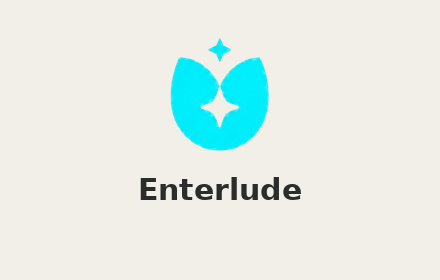
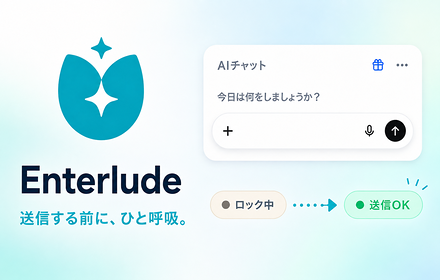
chore: refresh teal branding for v1.4.4 (#16)

diff --git a/README.md b/README.md
@@ -4,7 +4,7 @@
 
 # Enterlude
 
-![version](https://img.shields.io/badge/version-1.4.3-blue) ![license](https://img.shields.io/badge/license-MIT-green)
+![version](https://img.shields.io/badge/version-1.4.4-blue) ![license](https://img.shields.io/badge/license-MIT-green)
 
 **日本語** | [English](./README.en.md) | [한국어](./README.ko.md) | [繁體中文](./README.zh-TW.md)
 
@@ -76,7 +76,7 @@ fun/        … お楽しみ機能（一言コメントなど。comments.ja.js /
               ブラウザの表示言語に応じて自動的に切り替え。設定画面から手動指定も可能）
 popup/      … 拡張機能アイコンから開く設定画面
 _locales/   … 多言語対応のための表示文言（現在: 日本語・英語・韓国語・繁体字中国語）
-icons/      … 拡張機能アイコン（ツールバー表示用。視認性重視のシンプルな鍵デザイン）
+icons/      … 拡張機能アイコン（ツールバー表示用。Enterludeのティール色ブランドマーク）
 docs/       … 設計資料・スクリーンショット・ブランド用ロゴなど
 ```
 

diff --git a/docs/store-listing.md b/docs/store-listing.md
@@ -80,6 +80,14 @@ https://github.com/Maximiliana65/enterlude
 https://maximiliana65.github.io/enterlude/privacy.html
 ```
 
+## 次回更新用の掲載画像
+
+次回のChrome Web Store更新では、以下のティール色の素材を使用候補とします。ストア管理画面が求めるサイズ・形式は、アップロード直前にあらためて確認してください。
+
+- 小プロモーションタイル: `docs/images/store-promo-440x280.png`（440×280px）
+- マーキープロモーションタイル: `docs/images/store-marquee-1400x560.png`（1400×560px）
+- ストアロゴ: Chrome Web Store管理画面で現在使用しているロゴを、実際の画面で確認する。リポジトリの`docs/images/logo.png`および`docs/images/logo-300.png`はGitHub Pages・資料用であり、ストアロゴのサイズ要件を代用して判断しない
+
 ## 次回申請時に確認するPrivacy項目
 
 ストア管理画面の実際の質問と選択肢を開き、次の事実に沿って申告してください。前回の選択をそのまま再利用しないでください。

diff --git a/README.ko.md b/README.ko.md
@@ -4,7 +4,7 @@
 
 # Enterlude
 
-![version](https://img.shields.io/badge/version-1.4.3-blue) ![license](https://img.shields.io/badge/license-MIT-green)
+![version](https://img.shields.io/badge/version-1.4.4-blue) ![license](https://img.shields.io/badge/license-MIT-green)
 
 한국어 | [日本語](./README.md) | [English](./README.en.md) | [繁體中文](./README.zh-TW.md)
 
@@ -73,7 +73,7 @@ fun/        … 선택적인 재미 코멘트 기능 (comments.ja.js / comments.
               브라우저 표시 언어에 따라 자동으로 선택. 설정 화면에서 수동 지정도 가능)
 popup/      … 툴바 아이콘에서 여는 설정 화면
 _locales/   … 다국어 지원용 UI 문구 (현재 일본어・영어・한국어・번체 중국어)
-icons/      … 툴바 아이콘 (작은 크기에서도 잘 보이도록 단순한 자물쇠 모양 채택)
+icons/      … 툴바 아이콘 (작은 크기에서도 잘 보이도록 만든 Enterlude의 틸 색상 브랜드 마크)
 docs/       … 설계 자료, 스크린샷, 브랜드 에셋
 ```
 

diff --git a/README.en.md b/README.en.md
@@ -4,7 +4,7 @@
 
 # Enterlude
 
-![version](https://img.shields.io/badge/version-1.4.3-blue) ![license](https://img.shields.io/badge/license-MIT-green)
+![version](https://img.shields.io/badge/version-1.4.4-blue) ![license](https://img.shields.io/badge/license-MIT-green)
 
 English | [日本語](./README.md) | [한국어](./README.ko.md) | [繁體中文](./README.zh-TW.md)
 
@@ -73,7 +73,7 @@ fun/        … the optional fun-comment feature (comments.ja.js / comments.en.j
               or overridden manually from the settings screen)
 popup/      … the settings screen opened from the toolbar icon
 _locales/   … UI strings for i18n (currently Japanese, English, Korean, and Traditional Chinese)
-icons/      … toolbar icon (a simple lock, chosen for legibility at small sizes)
+icons/      … toolbar icon (the teal Enterlude brand mark, designed for small sizes)
 docs/       … design notes, screenshots, brand assets
 ```
 

diff --git a/README.zh-TW.md b/README.zh-TW.md
@@ -4,7 +4,7 @@
 
 # Enterlude
 
-![version](https://img.shields.io/badge/version-1.4.3-blue) ![license](https://img.shields.io/badge/license-MIT-green)
+![version](https://img.shields.io/badge/version-1.4.4-blue) ![license](https://img.shields.io/badge/license-MIT-green)
 
 繁體中文 | [日本語](./README.md) | [English](./README.en.md) | [한국어](./README.ko.md)
 
@@ -73,7 +73,7 @@ fun/        … 選用的趣味留言功能（comments.ja.js / comments.en.js /
               也可以在設定畫面手動指定）
 popup/      … 從工具列圖示開啟的設定畫面
 _locales/   … 多語系UI文字（目前有日文、英文、韓文、繁體中文）
-icons/      … 工具列圖示（簡單的鎖頭造型，在小尺寸下依然清晰）
+icons/      … 工具列圖示（適合小尺寸顯示的 Enterlude 青綠色品牌標誌）
 docs/       … 設計文件、截圖、品牌素材
 ```
 

diff --git a/CHANGELOG.md b/CHANGELOG.md
@@ -9,6 +9,15 @@
 
 ## [Unreleased]
 
+### 変更
+- 次回公開版（`manifest.json`ではv1.4.4）に向け、Enterludeのブランド素材をシアンからティールへ更新
+  - 拡張機能アイコン（16 / 48 / 128px）、GitHub用ロゴ、Chrome Web Store用の小プロモーションタイルを差し替え
+  - 将来のストア掲載で使うマーキープロモーションタイル（1400×560px）を追加
+  - 誤送信防止の処理、対応サイト、権限、設定画面の動作は変更していない
+
+### 備考
+- Chrome ウェブストアの公開版は引き続きv1.4.3。v1.4.4は、公開前の確認とストア申請を終えるまでソースコード上の次回版として扱う
+
 ## [1.4.3] - 2026-07-31
 ### 変更
 - README(4言語)・ストア掲載文言の「対応範囲」を、Chrome/Edge共通で使える表現に整理
